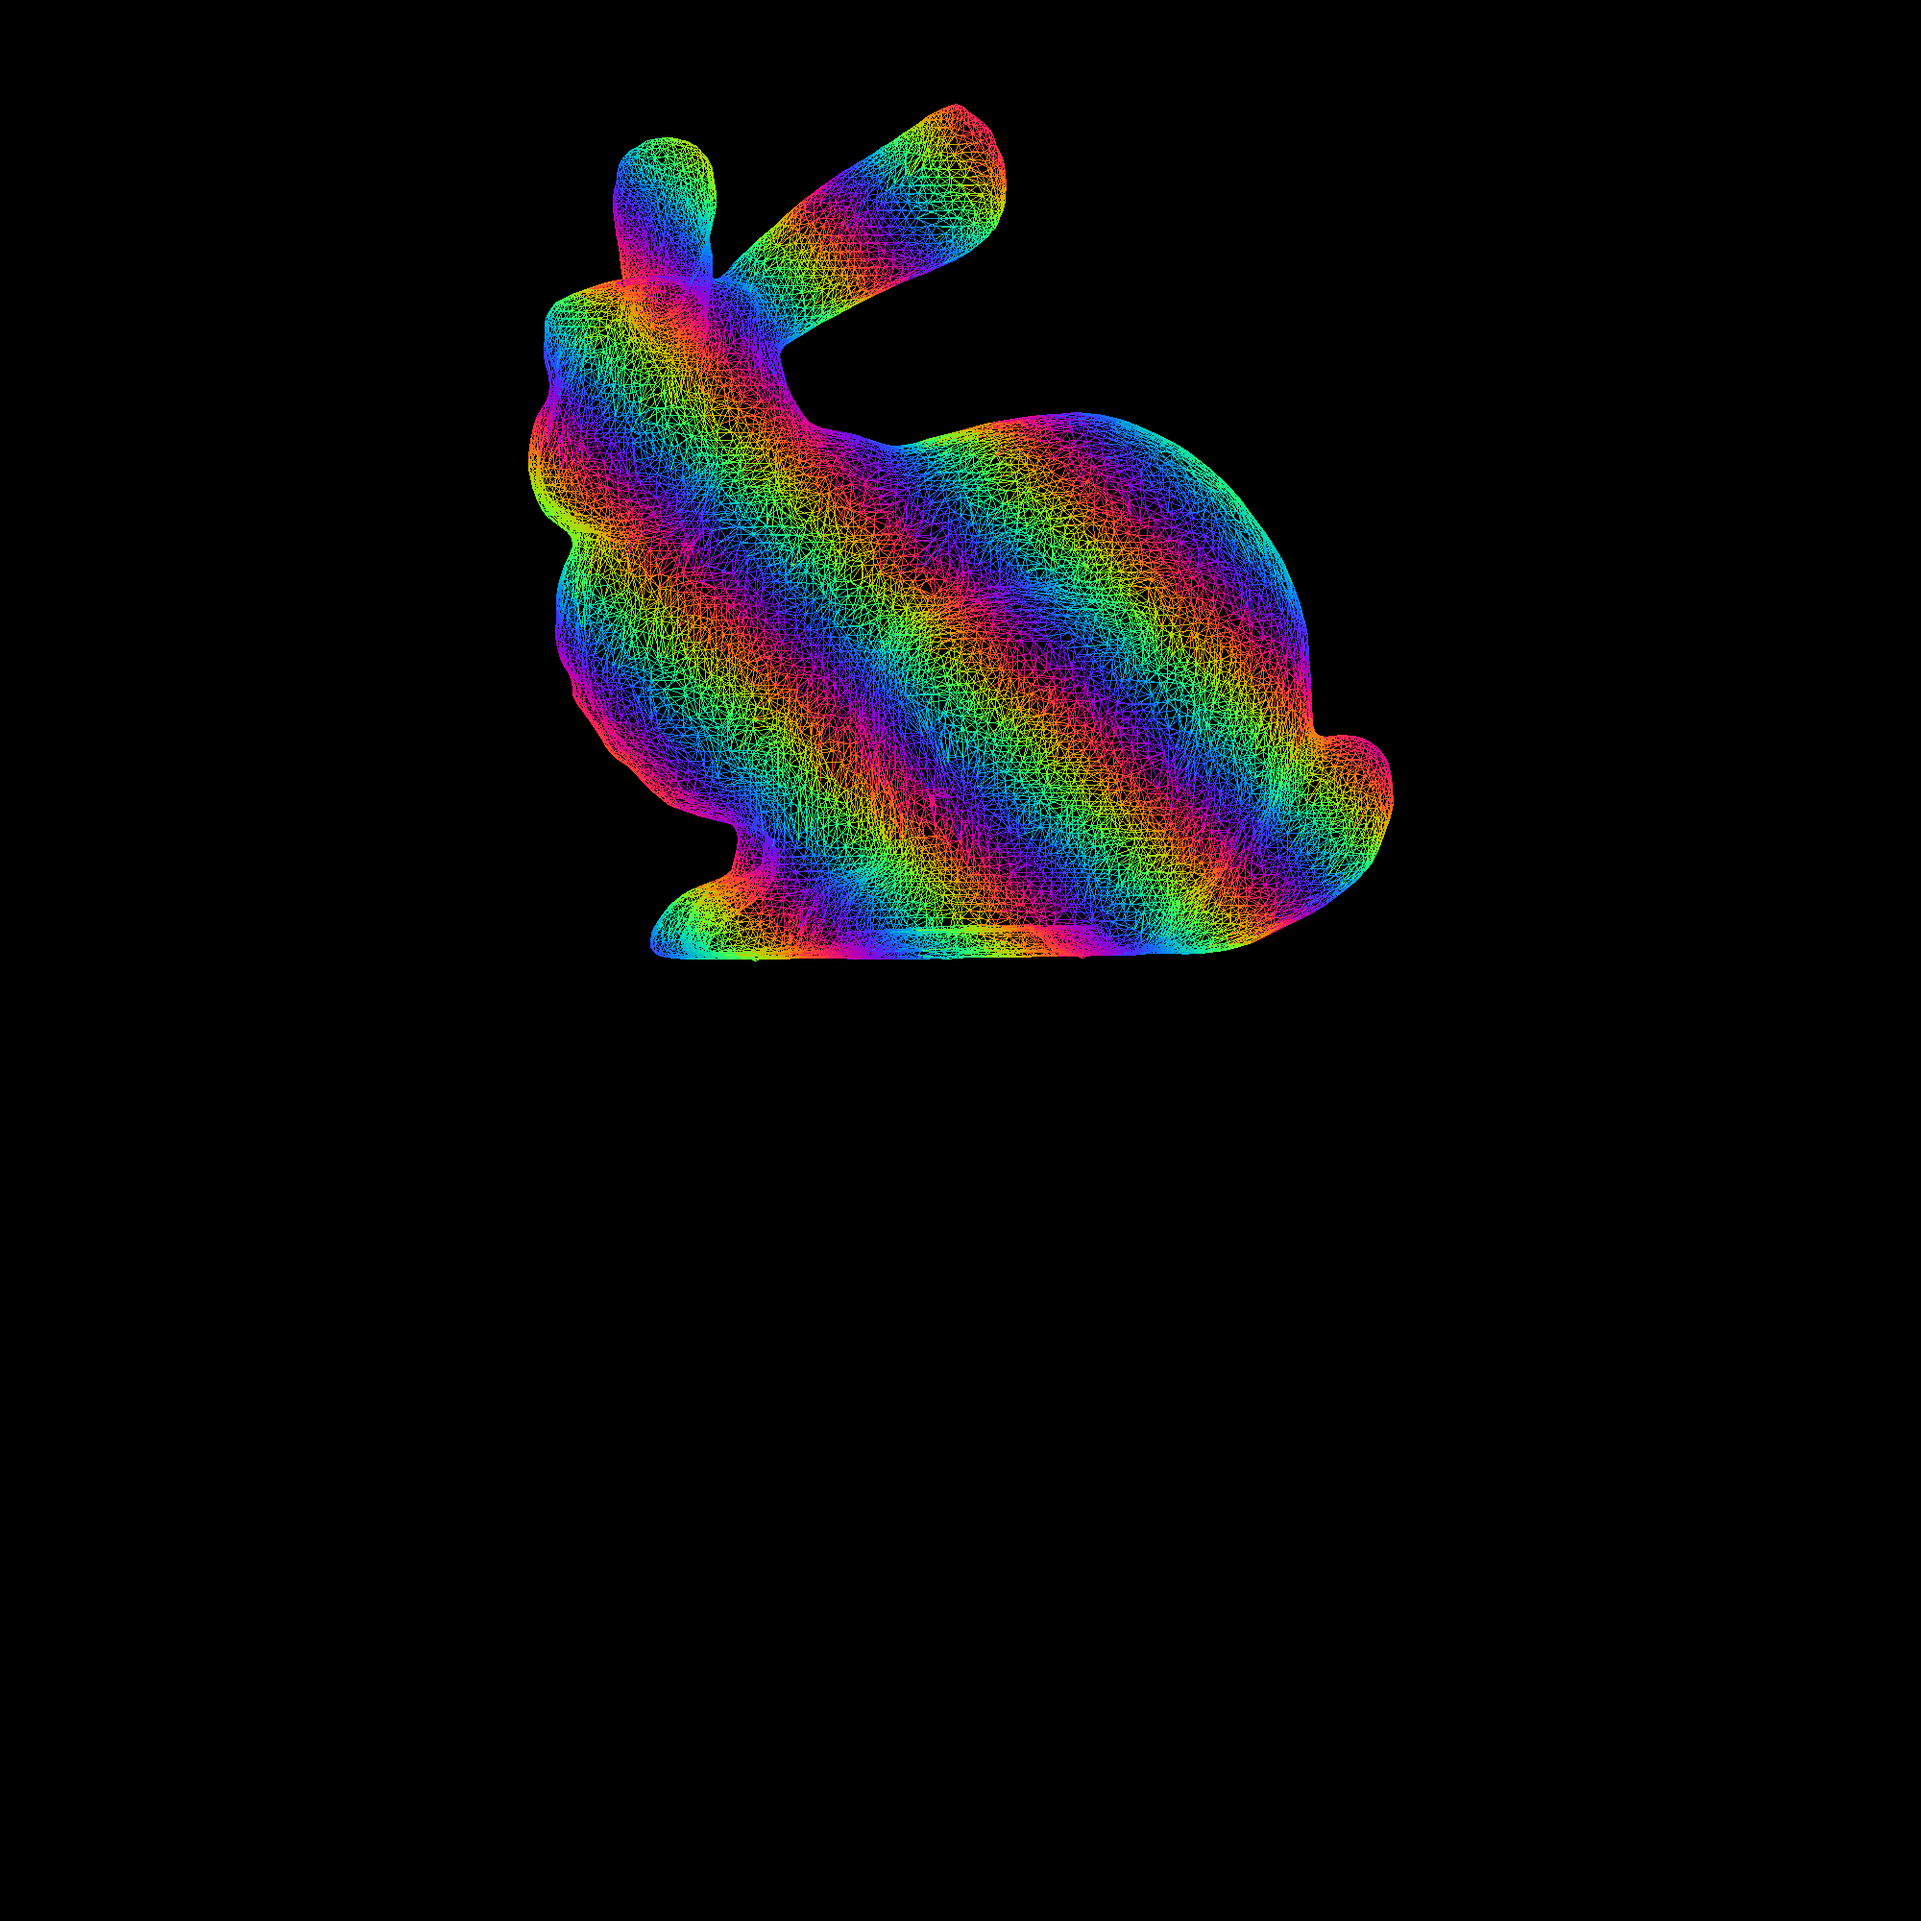
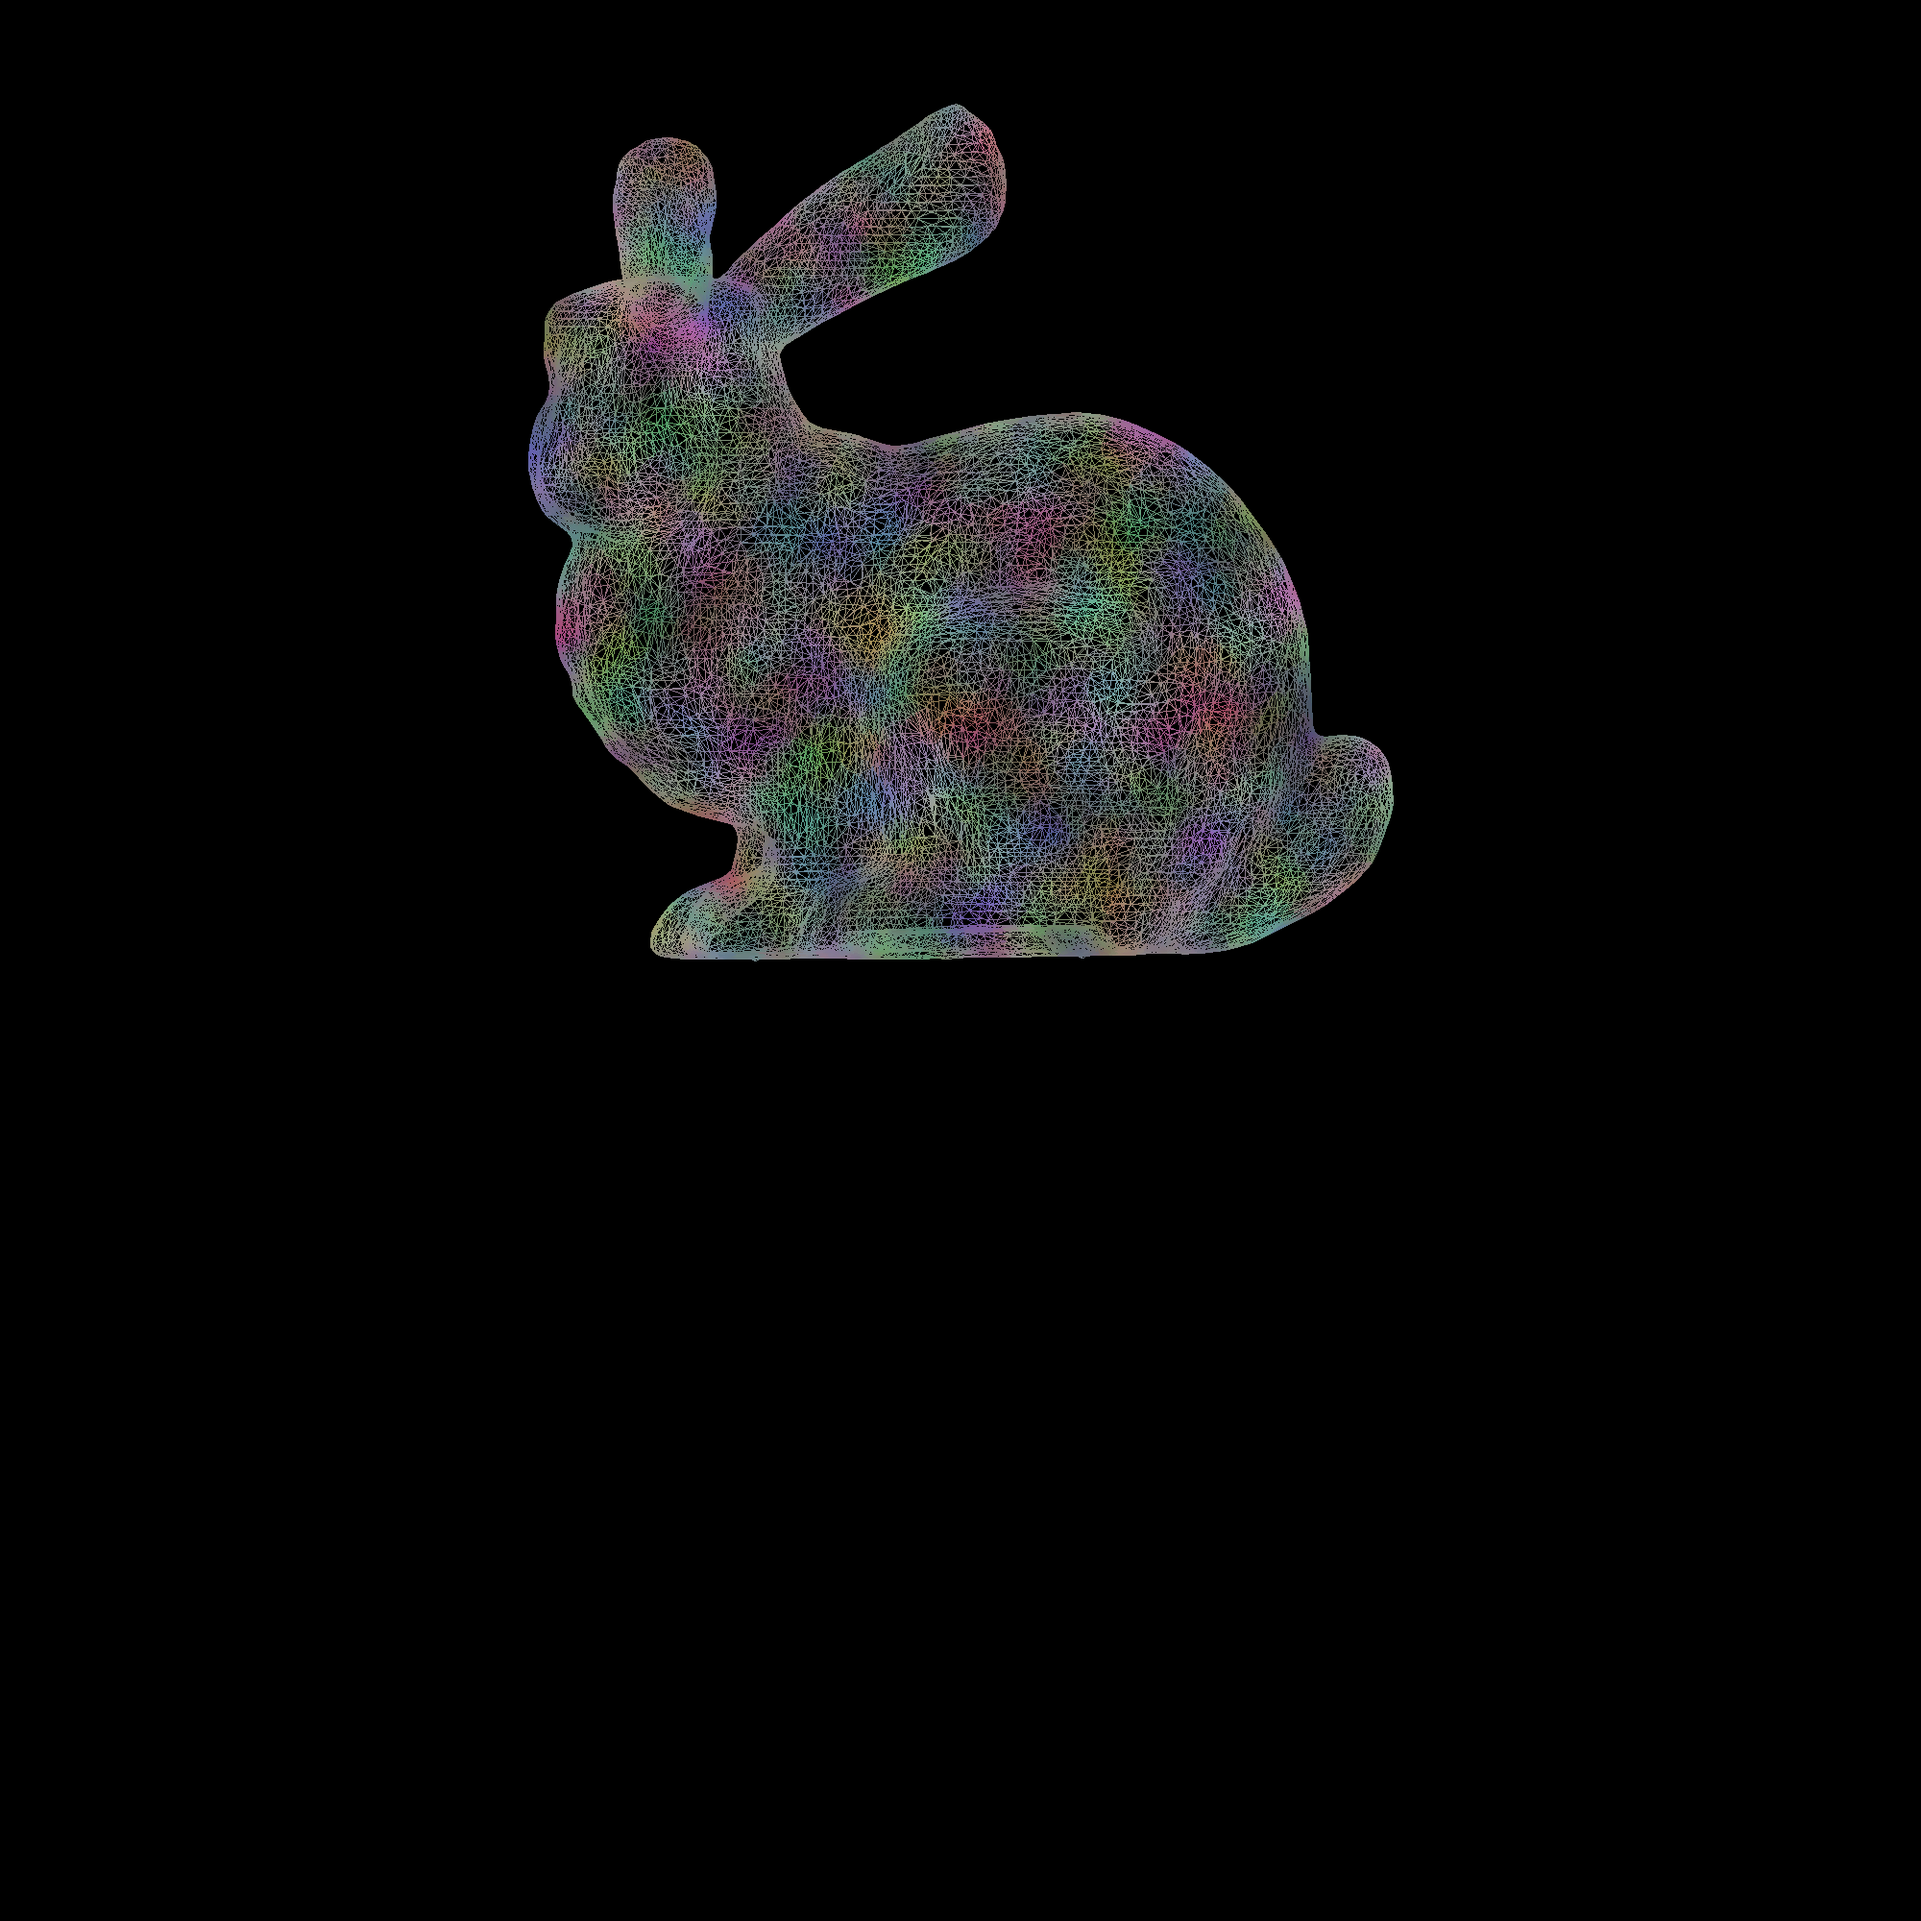
радужный заяц

Changed region(s): [[0.279, 0.062, 0.744, 0.527]]

diff --git a/1Lab.py b/1Lab.py
@@ -1,4 +1,5 @@
 import numpy as np
+import noise
 from PIL import Image, ImageOps
 from math import *
 
@@ -194,6 +195,28 @@ for i in range(len(v)):
 
     #img_mat[y, x] = [y%255, x%255, 255]
 
+import noise
+import numpy as np
+
+
+def get_perlin_color(x, y, z=0.0, scale=0.01):
+    r = noise.pnoise3(x * scale, y * scale, z, octaves=6, persistence=0.5, lacunarity=2.0)
+    g = noise.pnoise3(x * scale + 100, y * scale, z, octaves=6, persistence=0.5, lacunarity=2.0)
+    b = noise.pnoise3(x * scale, y * scale + 100, z, octaves=6, persistence=0.5, lacunarity=2.0)
+
+    r = int((r + 1) * 127.5)
+    g = int((g + 1) * 127.5)
+    b = int((b + 1) * 127.5)
+
+    return [r, g, b]
+
+
+def draw_perlin_rainbow_line(img, x0, y0, x1, y1, time=0.0):
+    mid_x = (x0 + x1) / 2.0
+    mid_y = (y0 + y1) / 2.0
+
+    color = get_perlin_color(mid_x, mid_y, time)
+    draw_line6(img, x0, y0, x1, y1, color=color)
 
 for face in f:
     for i in range(len(face)):
@@ -207,7 +230,8 @@ for face in f:
         y1 = int(9000 * v[end_idx][1] + 1000)
 
         #draw_line6(img_mat, x0, y0, x1, y1)
-        draw_rainbow_line(img_mat, x0, y0, x1, y1)
+        draw_perlin_rainbow_line(img_mat, x0, y0, x1, y1)
+        #draw_rainbow_line(img_mat, x0, y0, x1, y1)
 
 img = Image.fromarray(img_mat, mode='RGB')
 
